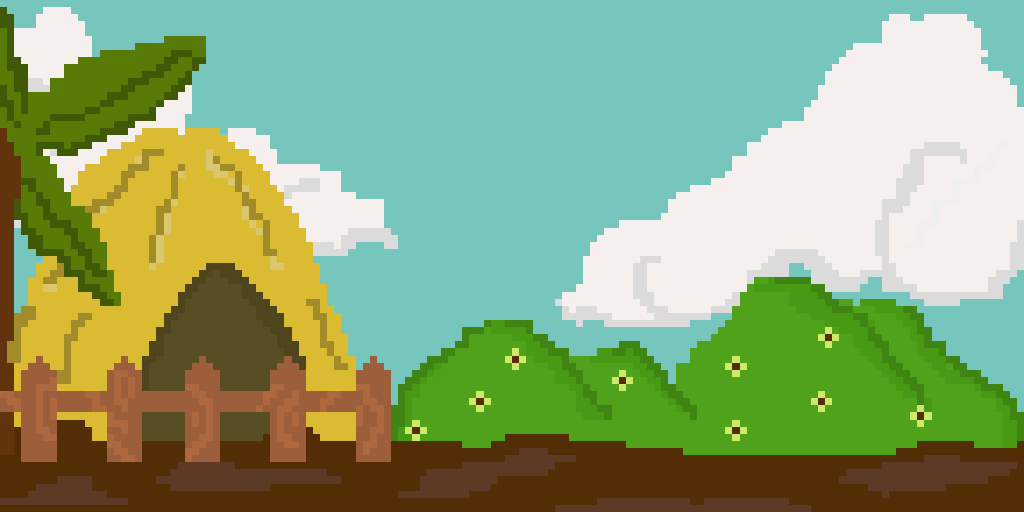
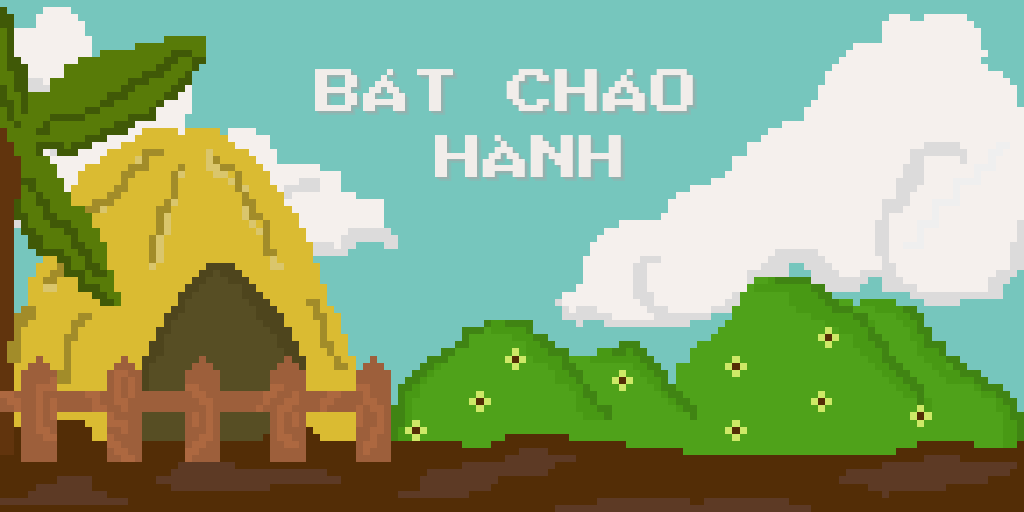
update gravity

Changed region(s): [[0.4062, 0.25, 0.625, 0.375], [0.4688, 0.125, 0.6875, 0.2188], [0.2812, 0.125, 0.4375, 0.2188]]

diff --git a/src/entity/player.java b/src/entity/player.java
@@ -16,14 +16,11 @@ public class player extends entity{
 
     public int screenX;
     public final int screenY;
-    // Jump/Gravity state
+
     private float velocityY = 0f;
     private float gravity = 0.6f;
-    private float jumpStrength = -10f;
-    private boolean isGrounded = true;
-    private int jumpVisualOffset = 0; // pixels above screenY for drawing
-    public int camX;      // camera X
-    public int lastCamX;
+    private float jumpStrength = -15f;
+    private boolean isGrounded = false;
 
 
     public player(gamePanel gp, keyHander keyH){
@@ -57,10 +54,6 @@ public class player extends entity{
     }
 
     public void getPlayerImage(){
-        //up1 = setup("up1");
-        //up2 = setup("up1-2.png");
-        //down1 = setup("back-6.png");
-        // down2 = setup("back-7.png");
         right1 = setup("ThiNo-1.png");
         right2 = setup("ThiNo-2.png");
         left1 = setup("ThiNo-3.png");
@@ -84,140 +77,76 @@ public class player extends entity{
     }
 
 
-    public void update(){
+    public void update() {
 
-        // Horizontal movement (existing)
-        if (keyH.upPress == true ||keyH.downPress == true ||keyH.leftPress == true ||keyH.rightPress == true){
-            if (keyH.upPress == true){
-                direction ="up";
+        // ===================== HORIZONTAL MOVEMENT =======================
+        if (keyH.leftPress || keyH.rightPress) {
 
-            }
-            else if (keyH.downPress == true){
-                direction ="down";
-
-            }
-            else if (keyH.leftPress == true){
-                direction ="left";
-
-            }
-            else if (keyH.rightPress == true){
-                direction ="right";
-
-
-            }
+            if (keyH.leftPress) direction = "left";
+            if (keyH.rightPress) direction = "right";
 
             collisionOn = false;
             gp.cChecker.checkTile(this);
-            if(collisionOn==false){
-                switch (direction){
-                    case "up":
-                        worldY -= speed ;
-                        break;
-                    case "down":
-                        worldY += speed ;
-                        break;
-                    case "left":
-                        worldX -= speed ;
-                        break;
-                    case "right":
-                        worldX += speed ;
 
-                        break;
-                }
-
-                // Prevent reaching the world border: block exactly the outermost row/column
-                // Allow movement only within tile indices [1 .. max-2]
-                int minX = 1 * gp.tileSize;
-                int minY = 1 * gp.tileSize;
-                int maxX = (gp.maxWorldCol - 2) * gp.tileSize;
-                int maxY = (gp.maxWorldRow - 2) * gp.tileSize;
-
-                if (worldX < minX) worldX = minX;
-                if (worldY < minY) worldY = minY;
-                if (worldX > maxX) worldX = maxX;
-                if (worldY > maxY) worldY = maxY;
+            if (!collisionOn) {
+                if (direction.equals("left")) worldX -= speed;
+                if (direction.equals("right")) worldX += speed;
             }
 
-
-            gp.cChecker.checkTile(this);
+            // ANIMATION
             spriteCounter++;
-            if (spriteCounter>10){
-                if (spriteNum==1) {
-                    spriteNum=2;
-                }
-                else if  (spriteNum==2) {
-                    spriteNum=1;
-                }
-                spriteCounter=0;
+            if (spriteCounter > 10) {
+                spriteNum = (spriteNum == 1 ? 2 : 1);
+                spriteCounter = 0;
             }
         }
 
-        // Jump input: start jump if grounded
+        // ========================= JUMP INPUT ============================
         if (keyH.jumpPress && isGrounded) {
             velocityY = jumpStrength;
             isGrounded = false;
         }
 
-        // Apply gravity when not grounded
-        if (!isGrounded) {
-            velocityY += gravity;
-            jumpVisualOffset += (int) Math.round(velocityY);
+        // ======================== GRAVITY APPLY ==========================
 
-            // Simple ground at base position (offset back to 0)
-            if (jumpVisualOffset > 0) {
-                jumpVisualOffset = 0;
-                velocityY = 0f;
+        velocityY += gravity;
+        float newY = worldY + velocityY;
+
+        // check va chạm theo Y
+        if (gp.cChecker.checkCollisionY(this, newY)) {
+            // nếu đang FALL xuống platform → đứng lại
+            if (velocityY > 0) {
                 isGrounded = true;
             }
+
+            // reset rơi để không xuyên platform
+            velocityY = 0;
+        } else {
+            worldY = (int)newY;
+            isGrounded = false;
         }
 
     }
 
 
-
-    public void draw(Graphics2D g2){
-
+    public void draw(Graphics2D g2) {
 
         BufferedImage image = null;
 
         switch (direction) {
-            case "down":
-                if (spriteNum==1){
-                    image=down1;}
-                if (spriteNum==2) {
-                    image=down2;
-                }
-                break;
-            case "up":
-                if (spriteNum==1){
-                    image=up1;}
-                if (spriteNum==2) {
-                    image=up2;
-                }
-                break;
             case "right":
-                if (spriteNum==1){
-                    image=right1;}
-                if (spriteNum==2) {
-                    image=right2;
-                }
+                image = (spriteNum == 1 ? right1 : right2);
                 break;
             case "left":
-                if (spriteNum==1){
-                    image=left1;}
-                if (spriteNum==2) {
-                    image=left2;
-                }
+                image = (spriteNum == 1 ? left1 : left2);
                 break;
-
         }
 
-        g2.drawImage(image, screenX, screenY + jumpVisualOffset, 128, 128, null);;
-
-
-        g2.setColor(Color.white);
+        g2.drawImage(image, screenX, screenY, 128, 128, null);
     }
 }
+
+
 
 
 

diff --git a/src/Game_2D/gamePanel.java b/src/Game_2D/gamePanel.java
@@ -34,7 +34,7 @@ public class gamePanel extends JPanel implements Runnable {
     public BufferedImage backgroundImage;
     int FPS = 60;
 
-    // --- 1. THÊM UI VÀ TRẠNG THÁI GAME ---
+
     public UI ui = new UI(this); // Khởi tạo giao diện Menu
     public int gameState;
     public final int titleState = 0; // Trạng thái ở Lobby
@@ -43,7 +43,7 @@ public class gamePanel extends JPanel implements Runnable {
 
     tileManager tileM = new tileManager(this);
 
-    // --- 2. SỬA LẠI KEYHANDLER (QUAN TRỌNG: Phải có 'this') ---
+
     public keyHander keyH = new keyHander(this);
 
     public collisionChecker cChecker = new collisionChecker(this);
@@ -67,13 +67,18 @@ public class gamePanel extends JPanel implements Runnable {
     public gamePanel() {
         bgMusic = new BackgroundMusic("/music/MusicBackground.wav");
         loseMusic = new BackgroundMusic("/music/over_ending.wav");
-//        bgMusic.playLoop();
+        bgMusic.playLoop();
         try {
-            backgroundImage = ImageIO.read(getClass().getResourceAsStream("/res/map/background.png"));
+            backgroundImage = ImageIO.read(
+                    getClass().getResourceAsStream("/res/ui/chongchay.png")
+            );
+            if (backgroundImage == null){
+                System.out.println("lỗi nền");
+            }
         } catch (Exception e) {
             e.printStackTrace();
         }
-
+        this.setOpaque(true);
         this.setPreferredSize(new Dimension(width, height));
         this.setBackground(new Color(37, 150, 190));
         this.setDoubleBuffered(true);
@@ -83,7 +88,6 @@ public class gamePanel extends JPanel implements Runnable {
         this.addMouseListener(new mouseHandler(this));
 
         gameState = titleState;
-
 
 
         getPlayerImage();
@@ -240,16 +244,20 @@ public class gamePanel extends JPanel implements Runnable {
         super.paintComponent(g);
         Graphics2D g2 = (Graphics2D) g;
 
-        // --- 5. LOGIC VẼ MÀN HÌNH ---
+        if (backgroundImage != null) {
+            g2.drawImage(backgroundImage, 0, 0, width, height, null);
+        } else {
+            g2.setColor(Color.BLACK);
+            g2.fillRect(0, 0, width, height);
+        }
 
-        // A. NẾU ĐANG Ở MENU (Lobby/Guide)
         if (gameState == titleState || gameState == guideState) {
             ui.draw(g2); // Chỉ vẽ UI Menu
         }
 
         // B. NẾU ĐANG CHƠI
         else {
-            // 1. Vẽ Background
+
             if (backgroundImage != null) {
                 g2.drawImage(backgroundImage, 0, 0, width, height, null);
             } else {
@@ -298,7 +306,7 @@ public class gamePanel extends JPanel implements Runnable {
         g2.dispose();
     }
 
-    // Tách hàm vẽ máu cho gọn
+
     public void drawPlayerLife(Graphics2D g2) {
         if (heartIcon != null) {
             int x = 10;
@@ -317,31 +325,29 @@ public class gamePanel extends JPanel implements Runnable {
     }
 
     public void drawGameOverScreen(Graphics2D g2) {
-        // 1. Làm tối màn hình
         g2.setColor(new Color(0, 0, 0, 150));
         g2.fillRect(0, 0, width, height);
 
-        // 2. --- SỬA: TĂNG KÍCH THƯỚC KHUNG MENU ---
         int menuWidth = 400;  // Cũ là 400 -> Tăng lên 600
         int menuHeight = 250; // Cũ là 250 -> Tăng lên 350
         int menuX = (width - menuWidth) / 2;
         int menuY = (height - menuHeight) / 2;
 
-        // Vẽ nền bảng
+
         g2.setColor(new Color(255, 255, 255, 230));
         g2.fillRoundRect(menuX, menuY, menuWidth, menuHeight, 30, 30); // Bo góc tròn hơn (30)
         g2.setColor(Color.BLACK);
         g2.setStroke(new BasicStroke(3)); // Viền dày hơn chút
         g2.drawRoundRect(menuX, menuY, menuWidth, menuHeight, 30, 30);
 
-        // 3. Vẽ chữ "YOU LOSE" (Cho to hơn nữa)
+
         g2.setFont(g2.getFont().deriveFont(Font.BOLD, 60f)); // Font size 60
         g2.setColor(Color.RED);
         String loseText = "YOU LOSE";
         int textWidth = g2.getFontMetrics().stringWidth(loseText);
         g2.drawString(loseText, menuX + (menuWidth - textWidth) / 2, menuY + 130);
 
-        // 4. Vẽ dòng hướng dẫn
+
         g2.setFont(g2.getFont().deriveFont(Font.PLAIN, 20f));
         g2.setColor(Color.BLACK);
         String instructionText = "Press R to Restart or ESC to Exit";

diff --git a/src/Game_2D/collisionChecker.java b/src/Game_2D/collisionChecker.java
@@ -191,4 +191,39 @@ public class collisionChecker {
         return ax1 < bx2 && ax2 > bx1 && ay1 < by2 && ay2 > by1;
     }
 
+    public boolean checkCollisionY(entity e, float newY) {
+
+        int left = e.worldX + e.solidArea.x;
+        int right = e.worldX + e.solidArea.x + e.solidArea.width;
+        int top = (int)(newY + e.solidArea.y);
+        int bottom = (int)(newY + e.solidArea.y + e.solidArea.height);
+
+        int leftCol = left / gp.tileSize;
+        int rightCol = right / gp.tileSize;
+        int topRow = top / gp.tileSize;
+        int bottomRow = bottom / gp.tileSize;
+
+        // chặn index
+        leftCol = Math.max(0, Math.min(leftCol, gp.maxWorldCol - 1));
+        rightCol = Math.max(0, Math.min(rightCol, gp.maxWorldCol - 1));
+        topRow = Math.max(0, Math.min(topRow, gp.maxWorldRow - 1));
+        bottomRow = Math.max(0, Math.min(bottomRow, gp.maxWorldRow - 1));
+
+        int tile1 = gp.tileM.mapTileNum[leftCol][topRow];
+        int tile2 = gp.tileM.mapTileNum[rightCol][topRow];
+        int tile3 = gp.tileM.mapTileNum[leftCol][bottomRow];
+        int tile4 = gp.tileM.mapTileNum[rightCol][bottomRow];
+
+        // tile nào có collision → đứng lại
+        if (gp.tileM.tile[tile1].collision ||
+                gp.tileM.tile[tile2].collision ||
+                gp.tileM.tile[tile3].collision ||
+                gp.tileM.tile[tile4].collision) {
+
+            return true;
+        }
+        return false;
+    }
+
+
 }

diff --git a/src/Game_2D/UI.java b/src/Game_2D/UI.java
@@ -30,7 +30,7 @@ public class UI {
         try {
 
             if (getClass().getResourceAsStream("/res/ui/background.png") != null) {
-                titleBackground = ImageIO.read(getClass().getResourceAsStream("/res/ui/backgr.png"));
+                titleBackground = ImageIO.read(getClass().getResourceAsStream("/res/ui/background.png"));
             } else {
                 System.err.println("!!! THIẾU ẢNH NỀN: /res/ui/background.png");
             }

diff --git a/src/tile/tileManager.java b/src/tile/tileManager.java
@@ -28,10 +28,10 @@ public class tileManager {
     }
 
     public void getTileImage() {
-        setup(0,"grass2",false);
+        setup(0,"grass2",true );
         setup(1,"sky",false);
         setup(2,"stone",true);
-        setup(3,"solid",false); //đất
+        setup(3,"solid",true); //đất
         setup(4,"wood",true);
         setup(5,"grassCollision",true); //cỏ C
         setup(6,"solidCollision",true); //đát c

diff --git a/src/Game_2D/keyHander.java b/src/Game_2D/keyHander.java
@@ -115,5 +115,6 @@ public class keyHander implements KeyListener {
         if (code == KeyEvent.VK_ESCAPE) {
             exitPress = false;
         }
+
     }
 }
